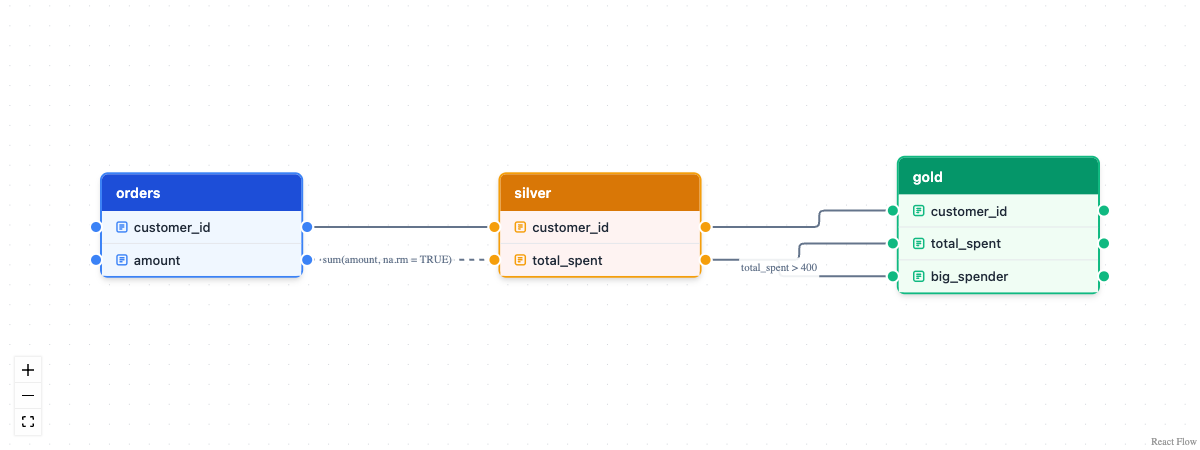
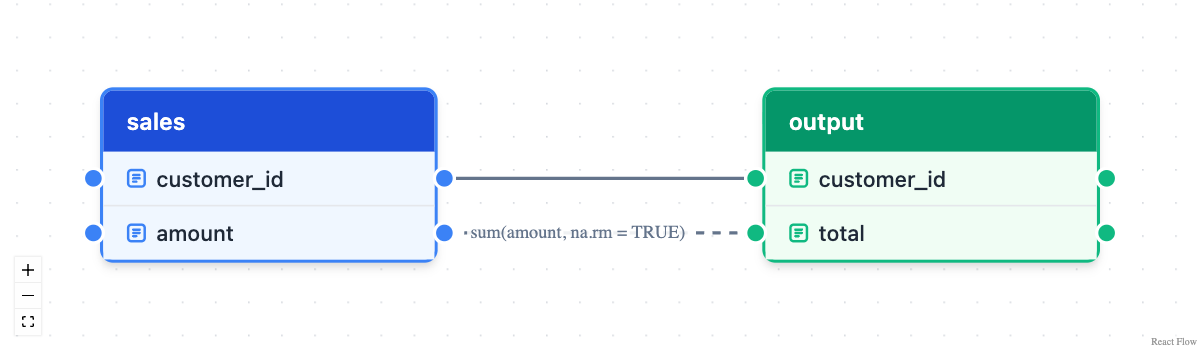
Deploying to gh-pages from @ tgerke/dplyneage@7fb83eca1cd01ed5af38fbdcd666793c7d12c346 🚀

diff --git a/index.html b/index.html
@@ -116,10 +116,30 @@
 <p>The resulting diagram is fully interactive: drag tables to rearrange, zoom and pan, and hover columns to highlight their connections. Computed columns carry their defining expression as an edge label, and aggregation edges animate.</p>
 </div>
 <div class="section level2">
+<h2 id="local-data-frames">Local data frames<a class="anchor" aria-label="anchor" href="#local-data-frames"></a>
+</h2>
+<p>Lineage extraction needs the lazy query tree that dbplyr builds before anything executes. A pipeline on a plain tibble has no such tree — dplyr runs each verb immediately — so <code><a href="reference/extract_lineage.html">extract_lineage()</a></code> can’t trace it. The workaround is one line: <code><a href="https://dbplyr.tidyverse.org/reference/memdb.html" class="external-link">dbplyr::memdb_frame()</a></code> puts the data in a throwaway in-memory SQLite database and hands back a lazy table, and the identical pipeline becomes traceable.</p>
+<div class="sourceCode" id="cb3"><pre class="downlit sourceCode r">
+<code class="sourceCode R"><span><span class="va">sales</span> <span class="op">&lt;-</span> <span class="fu"><a href="https://dbplyr.tidyverse.org/reference/memdb.html" class="external-link">memdb_frame</a></span><span class="op">(</span></span>
+<span>  customer_id <span class="op">=</span> <span class="fu"><a href="https://rdrr.io/r/base/c.html" class="external-link">c</a></span><span class="op">(</span><span class="fl">1</span>, <span class="fl">1</span>, <span class="fl">2</span><span class="op">)</span>,</span>
+<span>  amount <span class="op">=</span> <span class="fu"><a href="https://rdrr.io/r/base/c.html" class="external-link">c</a></span><span class="op">(</span><span class="fl">100</span>, <span class="fl">250</span>, <span class="fl">40</span><span class="op">)</span>,</span>
+<span>  .name <span class="op">=</span> <span class="st">"sales"</span></span>
+<span><span class="op">)</span></span>
+<span></span>
+<span><span class="va">sales</span> <span class="op">|&gt;</span></span>
+<span>  <span class="fu"><a href="https://dplyr.tidyverse.org/reference/group_by.html" class="external-link">group_by</a></span><span class="op">(</span><span class="va">customer_id</span><span class="op">)</span> <span class="op">|&gt;</span></span>
+<span>  <span class="fu"><a href="https://dplyr.tidyverse.org/reference/summarise.html" class="external-link">summarise</a></span><span class="op">(</span>total <span class="op">=</span> <span class="fu"><a href="https://rdrr.io/r/base/sum.html" class="external-link">sum</a></span><span class="op">(</span><span class="va">amount</span>, na.rm <span class="op">=</span> <span class="cn">TRUE</span><span class="op">)</span><span class="op">)</span> <span class="op">|&gt;</span></span>
+<span>  <span class="fu"><a href="reference/extract_lineage.html">extract_lineage</a></span><span class="op">(</span><span class="op">)</span> <span class="op">|&gt;</span></span>
+<span>  <span class="fu"><a href="reference/lineage_flow.html">lineage_flow</a></span><span class="op">(</span>height <span class="op">=</span> <span class="st">"350px"</span><span class="op">)</span></span>
+<span><span class="co">#&gt; file:////private/var/folders/fw/0d9nr9951q57f0d5l6qc1j200000gn/T/RtmpF7IxQF/file177c062e1dec9/widget177c05ae990d6.html screenshot completed</span></span></code></pre></div>
+<p><img src="reference/figures/README-unnamed-chunk-4-1.png" alt="Column-level lineage diagram tracing the summarised output table's total column back to the amount column of the sales source table"></p>
+<p>For a data frame you already have, <code>copy_to(dbplyr::memdb(), df, name = "df")</code> does the same copy. Lineage depends only on the pipeline’s structure, never on the data, so for large frames copying a slice is enough — <code>copy_to(dbplyr::memdb(), head(df), name = "df")</code> yields the same diagram as copying every row. See the <a href="https://tgerke.github.io/dplyneage/articles/getting-started.html#local-data-frames">Local data frames</a> section of the getting-started vignette for more.</p>
+</div>
+<div class="section level2">
 <h2 id="multi-model-pipelines">Multi-model pipelines<a class="anchor" aria-label="anchor" href="#multi-model-pipelines"></a>
 </h2>
 <p>Real pipelines materialize layers — bronze tables feed a silver summary, silver feeds gold. Pass <code><a href="reference/extract_lineage.html">extract_lineage()</a></code> a named list, one element per layer, and it stitches them into a single DAG: any source table whose name matches another element’s name links to that model’s node.</p>
-<div class="sourceCode" id="cb3"><pre class="downlit sourceCode r">
+<div class="sourceCode" id="cb4"><pre class="downlit sourceCode r">
 <code class="sourceCode R"><span><span class="va">silver</span> <span class="op">&lt;-</span> <span class="fu"><a href="https://dplyr.tidyverse.org/reference/tbl.html" class="external-link">tbl</a></span><span class="op">(</span><span class="va">con</span>, <span class="st">"orders"</span><span class="op">)</span> <span class="op">|&gt;</span></span>
 <span>  <span class="fu"><a href="https://dplyr.tidyverse.org/reference/group_by.html" class="external-link">group_by</a></span><span class="op">(</span><span class="va">customer_id</span><span class="op">)</span> <span class="op">|&gt;</span></span>
 <span>  <span class="fu"><a href="https://dplyr.tidyverse.org/reference/summarise.html" class="external-link">summarise</a></span><span class="op">(</span>total_spent <span class="op">=</span> <span class="fu"><a href="https://rdrr.io/r/base/sum.html" class="external-link">sum</a></span><span class="op">(</span><span class="va">amount</span>, na.rm <span class="op">=</span> <span class="cn">TRUE</span><span class="op">)</span>, .groups <span class="op">=</span> <span class="st">"drop"</span><span class="op">)</span></span>
@@ -130,10 +150,10 @@
 <span></span>
 <span><span class="fu"><a href="reference/extract_lineage.html">extract_lineage</a></span><span class="op">(</span><span class="fu"><a href="https://rdrr.io/r/base/list.html" class="external-link">list</a></span><span class="op">(</span>silver <span class="op">=</span> <span class="va">silver</span>, gold <span class="op">=</span> <span class="va">gold</span><span class="op">)</span><span class="op">)</span> <span class="op">|&gt;</span></span>
 <span>  <span class="fu"><a href="reference/lineage_flow.html">lineage_flow</a></span><span class="op">(</span>height <span class="op">=</span> <span class="st">"450px"</span><span class="op">)</span></span>
-<span><span class="co">#&gt; file:////private/var/folders/fw/0d9nr9951q57f0d5l6qc1j200000gn/T/RtmpfA4gSE/file137e47b9f0f1f/widget137e4799fba1.html screenshot completed</span></span></code></pre></div>
-<p><img src="reference/figures/README-unnamed-chunk-4-1.png" alt="Three-layer lineage diagram: the orders source table in blue feeds the silver transform table in orange, which feeds the gold target table in green, with column-level edges through all three layers"></p>
+<span><span class="co">#&gt; file:////private/var/folders/fw/0d9nr9951q57f0d5l6qc1j200000gn/T/RtmpF7IxQF/file177c06a1c37a7/widget177c06289eb5d.html screenshot completed</span></span></code></pre></div>
+<p><img src="reference/figures/README-unnamed-chunk-5-1.png" alt="Three-layer lineage diagram: the orders source table in blue feeds the silver transform table in orange, which feeds the gold target table in green, with column-level edges through all three layers"></p>
 <p>Intermediate models render as orange transform nodes, terminal models as green targets, and impact questions now span the whole pipeline:</p>
-<div class="sourceCode" id="cb4"><pre class="downlit sourceCode r">
+<div class="sourceCode" id="cb5"><pre class="downlit sourceCode r">
 <code class="sourceCode R"><span><span class="fu"><a href="reference/extract_lineage.html">extract_lineage</a></span><span class="op">(</span><span class="fu"><a href="https://rdrr.io/r/base/list.html" class="external-link">list</a></span><span class="op">(</span>silver <span class="op">=</span> <span class="va">silver</span>, gold <span class="op">=</span> <span class="va">gold</span><span class="op">)</span><span class="op">)</span> <span class="op">|&gt;</span></span>
 <span>  <span class="fu"><a href="reference/lineage_upstream.html">lineage_upstream</a></span><span class="op">(</span><span class="st">"gold.big_spender"</span><span class="op">)</span></span>
 <span><span class="co">#&gt; [1] "orders.amount"      "silver.total_spent"</span></span></code></pre></div>
@@ -142,7 +162,7 @@
 <h2 id="building-diagrams-by-hand">Building diagrams by hand<a class="anchor" aria-label="anchor" href="#building-diagrams-by-hand"></a>
 </h2>
 <p>For documentation or design work, you can construct lineage diagrams directly with <code><a href="reference/create_table_node.html">create_table_node()</a></code> and <code><a href="reference/create_column_edge.html">create_column_edge()</a></code>:</p>
-<div class="sourceCode" id="cb5"><pre class="downlit sourceCode r">
+<div class="sourceCode" id="cb6"><pre class="downlit sourceCode r">
 <code class="sourceCode R"><span><span class="va">nodes</span> <span class="op">&lt;-</span> <span class="fu"><a href="https://rdrr.io/r/base/list.html" class="external-link">list</a></span><span class="op">(</span></span>
 <span>  <span class="fu"><a href="reference/create_table_node.html">create_table_node</a></span><span class="op">(</span></span>
 <span>    table_name <span class="op">=</span> <span class="st">"customers"</span>,</span>
@@ -172,8 +192,8 @@
 <span><span class="op">)</span></span>
 <span></span>
 <span><span class="fu"><a href="reference/lineage_flow.html">lineage_flow</a></span><span class="op">(</span><span class="va">nodes</span>, <span class="va">edges</span>, height <span class="op">=</span> <span class="st">"600px"</span><span class="op">)</span></span>
-<span><span class="co">#&gt; file:////private/var/folders/fw/0d9nr9951q57f0d5l6qc1j200000gn/T/RtmpfA4gSE/file137e41403c709/widget137e44002a23.html screenshot completed</span></span></code></pre></div>
-<p><img src="reference/figures/README-unnamed-chunk-6-1.png" alt="Hand-built lineage diagram showing the customers and orders source tables in blue connected to a customer_summary target table in green, with a SUM() label on the total_spent edge"></p>
+<span><span class="co">#&gt; file:////private/var/folders/fw/0d9nr9951q57f0d5l6qc1j200000gn/T/RtmpF7IxQF/file177c033ee8508/widget177c0705feada.html screenshot completed</span></span></code></pre></div>
+<p><img src="reference/figures/README-unnamed-chunk-7-1.png" alt="Hand-built lineage diagram showing the customers and orders source tables in blue connected to a customer_summary target table in green, with a SUM() label on the total_spent edge"></p>
 <p>Table types follow the color conventions used by dbt and SQLMesh:</p>
 <table class="table">
 <thead><tr>
@@ -204,7 +224,7 @@
 <h2 id="works-with-ducklake">Works with ducklake<a class="anchor" aria-label="anchor" href="#works-with-ducklake"></a>
 </h2>
 <p>Because <code><a href="reference/extract_lineage.html">extract_lineage()</a></code> accepts any dbplyr lazy table, it composes directly with packages that produce them — for example <a href="https://github.com/tgerke/ducklake-r" class="external-link">ducklake</a> tables:</p>
-<div class="sourceCode" id="cb6"><pre class="downlit sourceCode r">
+<div class="sourceCode" id="cb7"><pre class="downlit sourceCode r">
 <code class="sourceCode R"><span><span class="kw"><a href="https://rdrr.io/r/base/library.html" class="external-link">library</a></span><span class="op">(</span><span class="va"><a href="https://tgerke.github.io/ducklake-r/" class="external-link">ducklake</a></span><span class="op">)</span></span>
 <span></span>
 <span><span class="fu"><a href="https://tgerke.github.io/ducklake-r/reference/get_ducklake_table.html" class="external-link">get_ducklake_table</a></span><span class="op">(</span><span class="st">"orders"</span><span class="op">)</span> <span class="op">|&gt;</span></span>
@@ -219,7 +239,7 @@
 <h2 id="lineage-as-data">Lineage as data<a class="anchor" aria-label="anchor" href="#lineage-as-data"></a>
 </h2>
 <p>Diagrams are for people; the same lineage is also useful as plain data. <code><a href="reference/lineage_edges.html">lineage_edges()</a></code> flattens it to one classified row per column edge, and <code><a href="reference/lineage_upstream.html">lineage_upstream()</a></code> / <code><a href="reference/lineage_upstream.html">lineage_downstream()</a></code> answer impact questions directly:</p>
-<div class="sourceCode" id="cb7"><pre class="downlit sourceCode r">
+<div class="sourceCode" id="cb8"><pre class="downlit sourceCode r">
 <code class="sourceCode R"><span><span class="va">lineage</span> <span class="op">&lt;-</span> <span class="fu"><a href="https://dplyr.tidyverse.org/reference/tbl.html" class="external-link">tbl</a></span><span class="op">(</span><span class="va">con</span>, <span class="st">"orders"</span><span class="op">)</span> <span class="op">|&gt;</span></span>
 <span>  <span class="fu"><a href="https://dplyr.tidyverse.org/reference/mutate-joins.html" class="external-link">left_join</a></span><span class="op">(</span><span class="fu"><a href="https://dplyr.tidyverse.org/reference/tbl.html" class="external-link">tbl</a></span><span class="op">(</span><span class="va">con</span>, <span class="st">"customers"</span><span class="op">)</span>, by <span class="op">=</span> <span class="st">"customer_id"</span><span class="op">)</span> <span class="op">|&gt;</span></span>
 <span>  <span class="fu"><a href="https://dplyr.tidyverse.org/reference/group_by.html" class="external-link">group_by</a></span><span class="op">(</span><span class="va">customer_id</span>, <span class="va">first_name</span><span class="op">)</span> <span class="op">|&gt;</span></span>
@@ -239,7 +259,7 @@
 <span><span class="fu"><a href="reference/lineage_upstream.html">lineage_upstream</a></span><span class="op">(</span><span class="va">lineage</span>, <span class="st">"output.total_spent"</span><span class="op">)</span></span>
 <span><span class="co">#&gt; [1] "orders.amount"</span></span></code></pre></div>
 <p><code><a href="reference/lineage_diff.html">lineage_diff()</a></code> compares two extractions — run it across branches in CI and provenance changes surface before they ship. For interchange, <code><a href="reference/lineage_json.html">lineage_json()</a></code> gives you a small, stable document you can query with jq, feed to a data catalog, or commit next to your pipeline code:</p>
-<div class="sourceCode" id="cb8"><pre class="downlit sourceCode r">
+<div class="sourceCode" id="cb9"><pre class="downlit sourceCode r">
 <code class="sourceCode R"><span><span class="fu"><a href="reference/lineage_json.html">lineage_json</a></span><span class="op">(</span><span class="va">lineage</span><span class="op">)</span></span>
 <span><span class="co">#&gt; {</span></span>
 <span><span class="co">#&gt;   "metadata": {</span></span>
@@ -294,19 +314,19 @@
 <span><span class="co">#&gt;   ]</span></span>
 <span><span class="co">#&gt; }</span></span></code></pre></div>
 <p>Written to a file, that document is scriptable from outside R entirely — here’s jq answering “which source columns feed <code>total_spent</code>?”:</p>
-<div class="sourceCode" id="cb9"><pre class="downlit sourceCode r">
+<div class="sourceCode" id="cb10"><pre class="downlit sourceCode r">
 <code class="sourceCode R"><span><span class="fu"><a href="reference/lineage_json.html">lineage_json</a></span><span class="op">(</span><span class="va">lineage</span>, <span class="st">"lineage.json"</span><span class="op">)</span></span></code></pre></div>
-<div class="sourceCode" id="cb10"><pre class="sourceCode bash"><code class="sourceCode bash"><span id="cb10-1"><a href="#cb10-1" tabindex="-1"></a><span class="ex">jq</span> <span class="at">-r</span> <span class="st">'.edges[] | select(.target_column == "total_spent")</span></span>
-<span id="cb10-2"><a href="#cb10-2" tabindex="-1"></a><span class="st">       | "\(.source).\(.source_column)"'</span> lineage.json</span>
-<span id="cb10-3"><a href="#cb10-3" tabindex="-1"></a><span class="co">#&gt; orders.amount</span></span></code></pre></div>
+<div class="sourceCode" id="cb11"><pre class="sourceCode bash"><code class="sourceCode bash"><span id="cb11-1"><a href="#cb11-1" tabindex="-1"></a><span class="ex">jq</span> <span class="at">-r</span> <span class="st">'.edges[] | select(.target_column == "total_spent")</span></span>
+<span id="cb11-2"><a href="#cb11-2" tabindex="-1"></a><span class="st">       | "\(.source).\(.source_column)"'</span> lineage.json</span>
+<span id="cb11-3"><a href="#cb11-3" tabindex="-1"></a><span class="co">#&gt; orders.amount</span></span></code></pre></div>
 <p><code><a href="reference/lineage_graphml.html">lineage_graphml()</a></code> writes GraphML, which opens directly in graph tools like Gephi, yEd, and igraph. The same question works as a graph query — and scales to transitive ancestry when pipelines chain:</p>
-<div class="sourceCode" id="cb11"><pre class="downlit sourceCode r">
+<div class="sourceCode" id="cb12"><pre class="downlit sourceCode r">
 <code class="sourceCode R"><span><span class="va">path</span> <span class="op">&lt;-</span> <span class="fu"><a href="https://rdrr.io/r/base/tempfile.html" class="external-link">tempfile</a></span><span class="op">(</span>fileext <span class="op">=</span> <span class="st">".graphml"</span><span class="op">)</span></span>
 <span><span class="fu"><a href="reference/lineage_graphml.html">lineage_graphml</a></span><span class="op">(</span><span class="va">lineage</span>, <span class="va">path</span><span class="op">)</span></span>
 <span></span>
 <span><span class="va">g</span> <span class="op">&lt;-</span> <span class="fu">igraph</span><span class="fu">::</span><span class="fu"><a href="https://r.igraph.org/reference/read_graph.html" class="external-link">read_graph</a></span><span class="op">(</span><span class="va">path</span>, format <span class="op">=</span> <span class="st">"graphml"</span><span class="op">)</span></span>
 <span><span class="fu">igraph</span><span class="fu">::</span><span class="fu"><a href="https://r.igraph.org/reference/subcomponent.html" class="external-link">subcomponent</a></span><span class="op">(</span><span class="va">g</span>, <span class="st">"output.total_spent"</span>, mode <span class="op">=</span> <span class="st">"in"</span><span class="op">)</span></span>
-<span><span class="co">#&gt; + 2/6 vertices, named, from ef74e0f:</span></span>
+<span><span class="co">#&gt; + 2/6 vertices, named, from dc9ae91:</span></span>
 <span><span class="co">#&gt; [1] output.total_spent orders.amount</span></span></code></pre></div>
 </div>
 <div class="section level2">

diff --git a/reference/extract_lineage.html b/reference/extract_lineage.html
@@ -78,7 +78,11 @@ Details). Lazy tables are analyzed directly from their lazy query
 tree (the SQL recorded in <code>metadata</code> still comes from
 <code><a href="https://dbplyr.tidyverse.org/reference/sql_build.html" class="external-link">dbplyr::sql_render()</a></code>); when one is handled by the sqlglot engine
 instead, its database connection is used to harvest table schemas
-automatically.</p></dd>
+automatically. Plain data frames are not accepted — dplyr executes
+each verb on them immediately, leaving no query tree to read. Wrap
+the data with <code><a href="https://dbplyr.tidyverse.org/reference/memdb.html" class="external-link">dbplyr::memdb_frame()</a></code> (or copy an existing frame
+with <code>copy_to(dbplyr::memdb(), df, name = "df")</code>) and the same
+pipeline becomes traceable; see <code><a href="../articles/getting-started.html">vignette("getting-started")</a></code>.</p></dd>
 
 
 <dt id="arg-dialect">dialect<a class="anchor" aria-label="anchor" href="#arg-dialect"></a></dt>
@@ -191,6 +195,10 @@ CTEs and multi-source columns.</p></div>
 <span class="r-msg co"><span class="r-pr">#&gt;</span>     intersect, setdiff, setequal, union</span>
 <span class="r-in"><span></span></span>
 <span class="r-in"><span><span class="va">con</span> <span class="op">&lt;-</span> <span class="fu">DBI</span><span class="fu">::</span><span class="fu"><a href="https://dbi.r-dbi.org/reference/dbConnect.html" class="external-link">dbConnect</a></span><span class="op">(</span><span class="fu">duckdb</span><span class="fu">::</span><span class="fu"><a href="https://r.duckdb.org/reference/duckdb.html" class="external-link">duckdb</a></span><span class="op">(</span><span class="op">)</span><span class="op">)</span></span></span>
+<span class="r-msg co"><span class="r-pr">#&gt;</span> duckdb is keeping downloaded extensions in a temporary directory:</span>
+<span class="r-msg co"><span class="r-pr">#&gt;</span> <span style="color: #0000BB;">ℹ</span> /tmp/RtmpAfUuyL/duckdb/extensions</span>
+<span class="r-msg co"><span class="r-pr">#&gt;</span> This is removed when the R session ends, so extensions are re-downloaded each session.</span>
+<span class="r-msg co"><span class="r-pr">#&gt;</span> <span style="color: #0000BB;">ℹ</span> To keep them, point `options(duckdb.extension_directory =)` or the `DUCKDB_EXTENSION_DIRECTORY` environment variable at a permanent path.</span>
 <span class="r-in"><span><span class="fu">DBI</span><span class="fu">::</span><span class="fu"><a href="https://dbi.r-dbi.org/reference/dbWriteTable.html" class="external-link">dbWriteTable</a></span><span class="op">(</span><span class="va">con</span>, <span class="st">"customers"</span>, <span class="fu"><a href="https://rdrr.io/r/base/data.frame.html" class="external-link">data.frame</a></span><span class="op">(</span>id <span class="op">=</span> <span class="fl">1</span>, name <span class="op">=</span> <span class="st">"a"</span><span class="op">)</span><span class="op">)</span></span></span>
 <span class="r-in"><span><span class="fu">DBI</span><span class="fu">::</span><span class="fu"><a href="https://dbi.r-dbi.org/reference/dbWriteTable.html" class="external-link">dbWriteTable</a></span><span class="op">(</span><span class="va">con</span>, <span class="st">"orders"</span>, <span class="fu"><a href="https://rdrr.io/r/base/data.frame.html" class="external-link">data.frame</a></span><span class="op">(</span>customer_id <span class="op">=</span> <span class="fl">1</span>, amount <span class="op">=</span> <span class="fl">10</span><span class="op">)</span><span class="op">)</span></span></span>
 <span class="r-in"><span></span></span>

diff --git a/articles/getting-started.html b/articles/getting-started.html
@@ -399,12 +399,12 @@ it:</p>
 <span></span>
 <span><span class="co"># Everything upstream of total_spent</span></span>
 <span><span class="fu">igraph</span><span class="fu">::</span><span class="fu"><a href="https://r.igraph.org/reference/subcomponent.html" class="external-link">subcomponent</a></span><span class="op">(</span><span class="va">g</span>, <span class="st">"output.total_spent"</span>, mode <span class="op">=</span> <span class="st">"in"</span><span class="op">)</span></span>
-<span><span class="co">#&gt; + 2/6 vertices, named, from 9c39ca3:</span></span>
+<span><span class="co">#&gt; + 2/6 vertices, named, from f916e50:</span></span>
 <span><span class="co">#&gt; [1] output.total_spent orders.amount</span></span>
 <span></span>
 <span><span class="co"># Everything downstream of orders.amount</span></span>
 <span><span class="fu">igraph</span><span class="fu">::</span><span class="fu"><a href="https://r.igraph.org/reference/subcomponent.html" class="external-link">subcomponent</a></span><span class="op">(</span><span class="va">g</span>, <span class="st">"orders.amount"</span>, mode <span class="op">=</span> <span class="st">"out"</span><span class="op">)</span></span>
-<span><span class="co">#&gt; + 2/6 vertices, named, from 9c39ca3:</span></span>
+<span><span class="co">#&gt; + 2/6 vertices, named, from f916e50:</span></span>
 <span><span class="co">#&gt; [1] orders.amount      output.total_spent</span></span></code></pre></div>
 <p>Both functions return the serialized string when called without
 <code>path</code>, so they compose in pipes and tests.</p>

diff --git a/news/index.html b/news/index.html
@@ -40,7 +40,8 @@
 
     <div class="section level2">
 <h2 class="pkg-version" data-toc-text="development version" id="dplyneage-development-version">dplyneage (development version)<a class="anchor" aria-label="anchor" href="#dplyneage-development-version"></a></h2>
-<ul><li><p>New <code><a href="../reference/lineage_openlineage.html">lineage_openlineage()</a></code> exports lineage as an OpenLineage <code>RunEvent</code> with <code>ColumnLineage</code> facets — the interchange format Marquez, DataHub, and OpenMetadata ingest, so dplyneage-extracted lineage can sit alongside lineage from dbt, Airflow, or Spark. Edge classifications map to OpenLineage transformation types, including <code>INDIRECT</code> subtypes for <code>include_indirect</code> edges.</p></li>
+<ul><li><p><code><a href="../reference/extract_lineage.html">extract_lineage()</a></code> now gives an actionable error when passed a plain data frame, pointing to the <code><a href="https://dbplyr.tidyverse.org/reference/memdb.html" class="external-link">dbplyr::memdb_frame()</a></code> / <code><a href="https://dplyr.tidyverse.org/reference/copy_to.html" class="external-link">copy_to()</a></code> workaround instead of failing later with a misleading message about Python or SQL strings. The workaround is also documented in the README and on <code><a href="../reference/extract_lineage.html">?extract_lineage</a></code>.</p></li>
+<li><p>New <code><a href="../reference/lineage_openlineage.html">lineage_openlineage()</a></code> exports lineage as an OpenLineage <code>RunEvent</code> with <code>ColumnLineage</code> facets — the interchange format Marquez, DataHub, and OpenMetadata ingest, so dplyneage-extracted lineage can sit alongside lineage from dbt, Airflow, or Spark. Edge classifications map to OpenLineage transformation types, including <code>INDIRECT</code> subtypes for <code>include_indirect</code> edges.</p></li>
 <li><p>New <code><a href="../reference/lineage_mermaid.html">lineage_mermaid()</a></code> exports lineage as a Mermaid flowchart — paste it into a <code>```mermaid</code> fence and it renders natively on GitHub, in Quarto, and in most documentation tools, with no htmlwidget involved. Tables draw as colored subgraphs, non-identity edges carry their expression, and indirect edges draw dashed.</p></li>
 <li><p>The getting-started vignette now covers local data frames: plain-dplyr pipelines have no lazy query tree to trace, and <code><a href="https://dbplyr.tidyverse.org/reference/memdb.html" class="external-link">dbplyr::memdb_frame()</a></code> (or any <code><a href="https://dplyr.tidyverse.org/reference/copy_to.html" class="external-link">copy_to()</a></code>) is the one-line workaround that makes the identical pipeline traceable.</p></li>
 <li><p>New <code>include_indirect</code> argument for <code><a href="../reference/extract_lineage.html">extract_lineage()</a></code>: columns used in <code><a href="https://dplyr.tidyverse.org/reference/filter.html" class="external-link">filter()</a></code>/<code>WHERE</code>, join conditions, <code><a href="https://dplyr.tidyverse.org/reference/group_by.html" class="external-link">group_by()</a></code>, and <code><a href="https://dplyr.tidyverse.org/reference/arrange.html" class="external-link">arrange()</a></code>/<code>ORDER BY</code> — which shape the result without appearing in it — draw as dashed edges to each output column, classified by use (<code>"filter"</code>, <code>"join"</code>, <code>"group_by"</code>, <code>"sort"</code>). Impact analysis via <code><a href="../reference/lineage_upstream.html">lineage_upstream()</a></code>/<code><a href="../reference/lineage_upstream.html">lineage_downstream()</a></code> then sees them too: dropping a column used only in a <code><a href="https://dplyr.tidyverse.org/reference/filter.html" class="external-link">filter()</a></code> still breaks the pipeline. Both engines support it, and multi-model pipelines stitch indirect edges across layers.</p></li>

diff --git a/reference/lineage_graphml.html b/reference/lineage_graphml.html
@@ -150,7 +150,7 @@ string is returned invisibly.</p></dd>
 <span class="r-in"><span><span class="fu">lineage_graphml</span><span class="op">(</span><span class="va">lineage</span>, path <span class="op">=</span> <span class="va">path</span><span class="op">)</span></span></span>
 <span class="r-in"><span><span class="va">g</span> <span class="op">&lt;-</span> <span class="fu">igraph</span><span class="fu">::</span><span class="fu"><a href="https://r.igraph.org/reference/read_graph.html" class="external-link">read_graph</a></span><span class="op">(</span><span class="va">path</span>, format <span class="op">=</span> <span class="st">"graphml"</span><span class="op">)</span></span></span>
 <span class="r-in"><span><span class="fu">igraph</span><span class="fu">::</span><span class="fu"><a href="https://r.igraph.org/reference/subcomponent.html" class="external-link">subcomponent</a></span><span class="op">(</span><span class="va">g</span>, <span class="st">"daily_totals.total"</span>, mode <span class="op">=</span> <span class="st">"in"</span><span class="op">)</span></span></span>
-<span class="r-out co"><span class="r-pr">#&gt;</span> + 2/3 vertices, named, from e067e89:</span>
+<span class="r-out co"><span class="r-pr">#&gt;</span> + 2/3 vertices, named, from d2efe9a:</span>
 <span class="r-out co"><span class="r-pr">#&gt;</span> [1] daily_totals.total orders.amount     </span>
 </code></pre></div>
     </div>

diff --git a/index.md b/index.md
@@ -97,6 +97,46 @@ zoom and pan, and hover columns to highlight their connections. Computed
 columns carry their defining expression as an edge label, and
 aggregation edges animate.
 
+## Local data frames
+
+Lineage extraction needs the lazy query tree that dbplyr builds before
+anything executes. A pipeline on a plain tibble has no such tree — dplyr
+runs each verb immediately — so
+[`extract_lineage()`](https://tgerke.github.io/dplyneage/reference/extract_lineage.md)
+can’t trace it. The workaround is one line:
+[`dbplyr::memdb_frame()`](https://dbplyr.tidyverse.org/reference/memdb.html)
+puts the data in a throwaway in-memory SQLite database and hands back a
+lazy table, and the identical pipeline becomes traceable.
+
+``` r
+
+sales <- memdb_frame(
+  customer_id = c(1, 1, 2),
+  amount = c(100, 250, 40),
+  .name = "sales"
+)
+
+sales |>
+  group_by(customer_id) |>
+  summarise(total = sum(amount, na.rm = TRUE)) |>
+  extract_lineage() |>
+  lineage_flow(height = "350px")
+#> file:////private/var/folders/fw/0d9nr9951q57f0d5l6qc1j200000gn/T/RtmpF7IxQF/file177c062e1dec9/widget177c05ae990d6.html screenshot completed
+```
+
+![Column-level lineage diagram tracing the summarised output table's
+total column back to the amount column of the sales source
+table](reference/figures/README-unnamed-chunk-4-1.png)
+
+For a data frame you already have,
+`copy_to(dbplyr::memdb(), df, name = "df")` does the same copy. Lineage
+depends only on the pipeline’s structure, never on the data, so for
+large frames copying a slice is enough —
+`copy_to(dbplyr::memdb(), head(df), name = "df")` yields the same
+diagram as copying every row. See the [Local data
+frames](https://tgerke.github.io/dplyneage/articles/getting-started.html#local-data-frames)
+section of the getting-started vignette for more.
+
 ## Multi-model pipelines
 
 Real pipelines materialize layers — bronze tables feed a silver summary,
@@ -118,13 +158,13 @@ gold <- tbl(con, "silver") |>
 
 extract_lineage(list(silver = silver, gold = gold)) |>
   lineage_flow(height = "450px")
-#> file:////private/var/folders/fw/0d9nr9951q57f0d5l6qc1j200000gn/T/RtmpfA4gSE/file137e47b9f0f1f/widget137e4799fba1.html screenshot completed
+#> file:////private/var/folders/fw/0d9nr9951q57f0d5l6qc1j200000gn/T/RtmpF7IxQF/file177c06a1c37a7/widget177c06289eb5d.html screenshot completed
 ```
 
 ![Three-layer lineage diagram: the orders source table in blue feeds the
 silver transform table in orange, which feeds the gold target table in
 green, with column-level edges through all three
-layers](reference/figures/README-unnamed-chunk-4-1.png)
+layers](reference/figures/README-unnamed-chunk-5-1.png)
 
 Intermediate models render as orange transform nodes, terminal models as
 green targets, and impact questions now span the whole pipeline:
@@ -175,13 +215,13 @@ edges <- list(
 )
 
 lineage_flow(nodes, edges, height = "600px")
-#> file:////private/var/folders/fw/0d9nr9951q57f0d5l6qc1j200000gn/T/RtmpfA4gSE/file137e41403c709/widget137e44002a23.html screenshot completed
+#> file:////private/var/folders/fw/0d9nr9951q57f0d5l6qc1j200000gn/T/RtmpF7IxQF/file177c033ee8508/widget177c0705feada.html screenshot completed
 ```
 
 ![Hand-built lineage diagram showing the customers and orders source
 tables in blue connected to a customer_summary target table in green,
 with a SUM() label on the total_spent
-edge](reference/figures/README-unnamed-chunk-6-1.png)
+edge](reference/figures/README-unnamed-chunk-7-1.png)
 
 Table types follow the color conventions used by dbt and SQLMesh:
 
@@ -339,7 +379,7 @@ lineage_graphml(lineage, path)
 
 g <- igraph::read_graph(path, format = "graphml")
 igraph::subcomponent(g, "output.total_spent", mode = "in")
-#> + 2/6 vertices, named, from ef74e0f:
+#> + 2/6 vertices, named, from dc9ae91:
 #> [1] output.total_spent orders.amount
 ```
 

diff --git a/reference/extract_lineage.md b/reference/extract_lineage.md
@@ -29,7 +29,14 @@ extract_lineage(
   recorded in `metadata` still comes from
   [`dbplyr::sql_render()`](https://dbplyr.tidyverse.org/reference/sql_build.html));
   when one is handled by the sqlglot engine instead, its database
-  connection is used to harvest table schemas automatically.
+  connection is used to harvest table schemas automatically. Plain data
+  frames are not accepted — dplyr executes each verb on them
+  immediately, leaving no query tree to read. Wrap the data with
+  [`dbplyr::memdb_frame()`](https://dbplyr.tidyverse.org/reference/memdb.html)
+  (or copy an existing frame with
+  `copy_to(dbplyr::memdb(), df, name = "df")`) and the same pipeline
+  becomes traceable; see
+  [`vignette("getting-started")`](https://tgerke.github.io/dplyneage/articles/getting-started.md).
 
 - dialect:
 
@@ -153,6 +160,10 @@ library(dplyr)
 #>     intersect, setdiff, setequal, union
 
 con <- DBI::dbConnect(duckdb::duckdb())
+#> duckdb is keeping downloaded extensions in a temporary directory:
+#> ℹ /tmp/RtmpAfUuyL/duckdb/extensions
+#> This is removed when the R session ends, so extensions are re-downloaded each session.
+#> ℹ To keep them, point `options(duckdb.extension_directory =)` or the `DUCKDB_EXTENSION_DIRECTORY` environment variable at a permanent path.
 DBI::dbWriteTable(con, "customers", data.frame(id = 1, name = "a"))
 DBI::dbWriteTable(con, "orders", data.frame(customer_id = 1, amount = 10))
 

diff --git a/news/index.md b/news/index.md
@@ -2,6 +2,16 @@
 
 ## dplyneage (development version)
 
+- [`extract_lineage()`](https://tgerke.github.io/dplyneage/reference/extract_lineage.md)
+  now gives an actionable error when passed a plain data frame, pointing
+  to the
+  [`dbplyr::memdb_frame()`](https://dbplyr.tidyverse.org/reference/memdb.html)
+  / [`copy_to()`](https://dplyr.tidyverse.org/reference/copy_to.html)
+  workaround instead of failing later with a misleading message about
+  Python or SQL strings. The workaround is also documented in the README
+  and on
+  [`?extract_lineage`](https://tgerke.github.io/dplyneage/reference/extract_lineage.md).
+
 - New
   [`lineage_openlineage()`](https://tgerke.github.io/dplyneage/reference/lineage_openlineage.md)
   exports lineage as an OpenLineage `RunEvent` with `ColumnLineage`

diff --git a/articles/getting-started.md b/articles/getting-started.md
@@ -366,12 +366,12 @@ g <- igraph::read_graph(path, format = "graphml")
 
 # Everything upstream of total_spent
 igraph::subcomponent(g, "output.total_spent", mode = "in")
-#> + 2/6 vertices, named, from 9c39ca3:
+#> + 2/6 vertices, named, from f916e50:
 #> [1] output.total_spent orders.amount
 
 # Everything downstream of orders.amount
 igraph::subcomponent(g, "orders.amount", mode = "out")
-#> + 2/6 vertices, named, from 9c39ca3:
+#> + 2/6 vertices, named, from f916e50:
 #> [1] orders.amount      output.total_spent
 ```
 

diff --git a/reference/lineage_graphml.md b/reference/lineage_graphml.md
@@ -98,6 +98,6 @@ path <- tempfile(fileext = ".graphml")
 lineage_graphml(lineage, path = path)
 g <- igraph::read_graph(path, format = "graphml")
 igraph::subcomponent(g, "daily_totals.total", mode = "in")
-#> + 2/3 vertices, named, from e067e89:
+#> + 2/3 vertices, named, from d2efe9a:
 #> [1] daily_totals.total orders.amount     
 ```